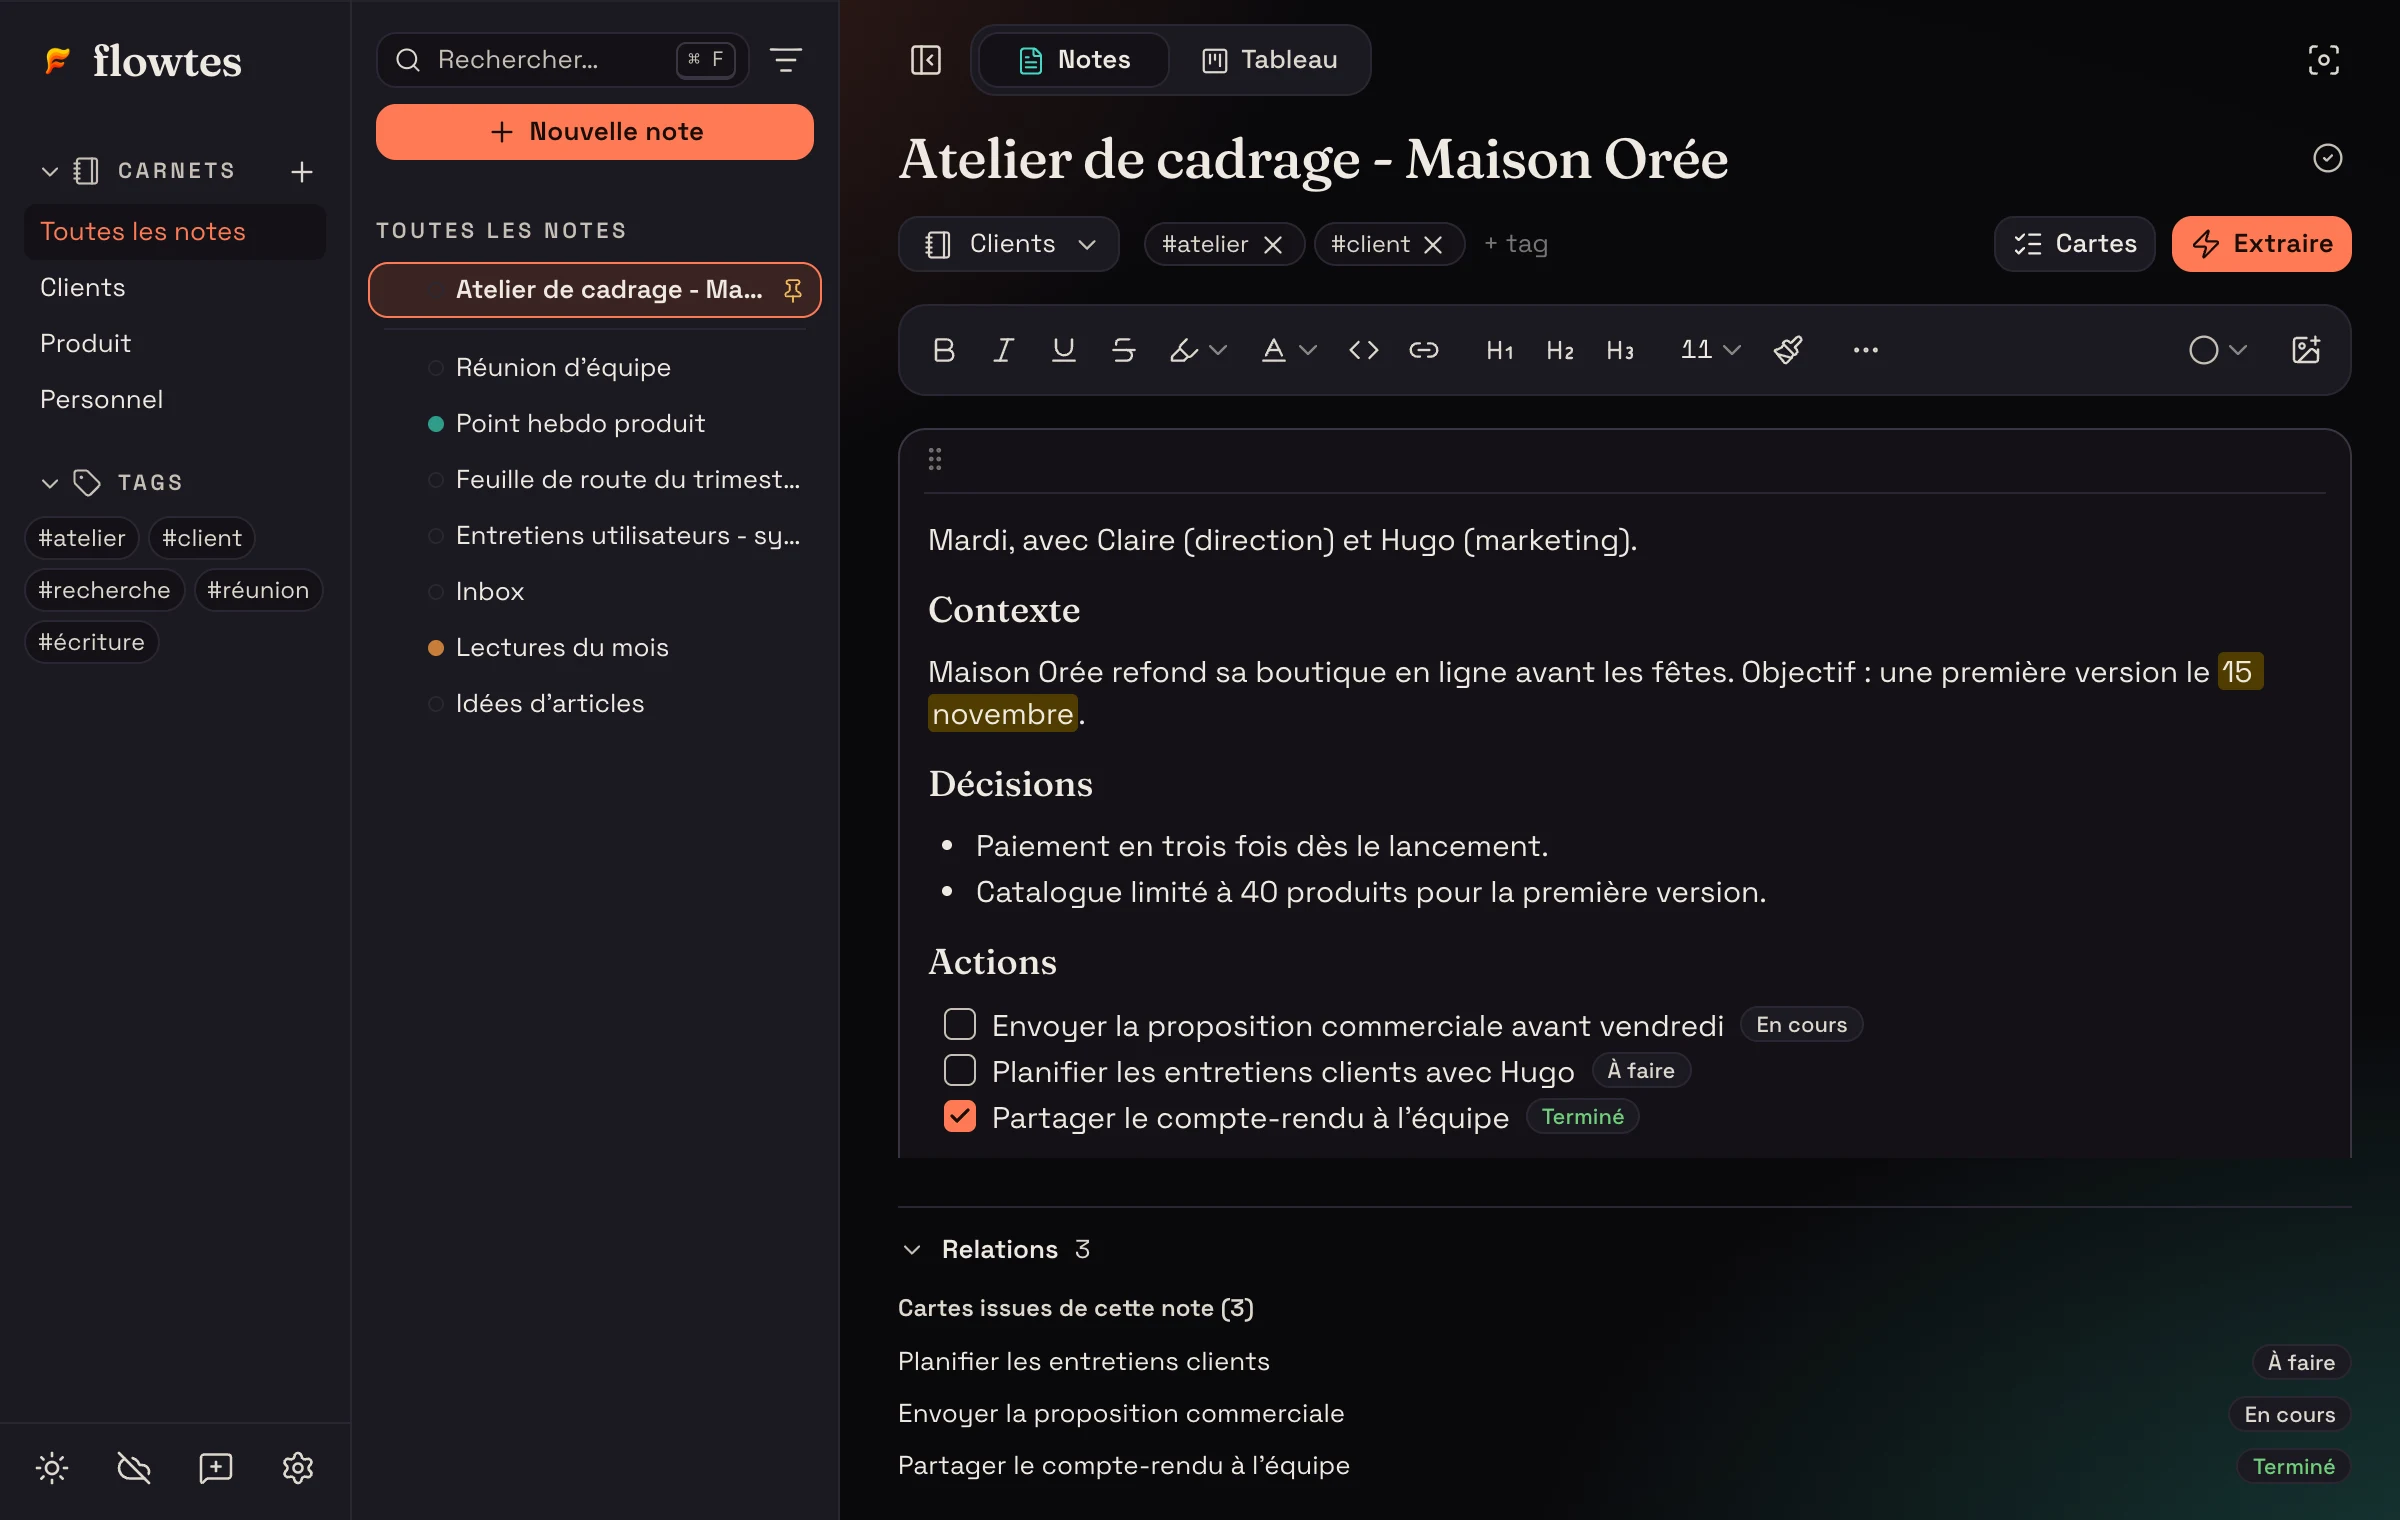
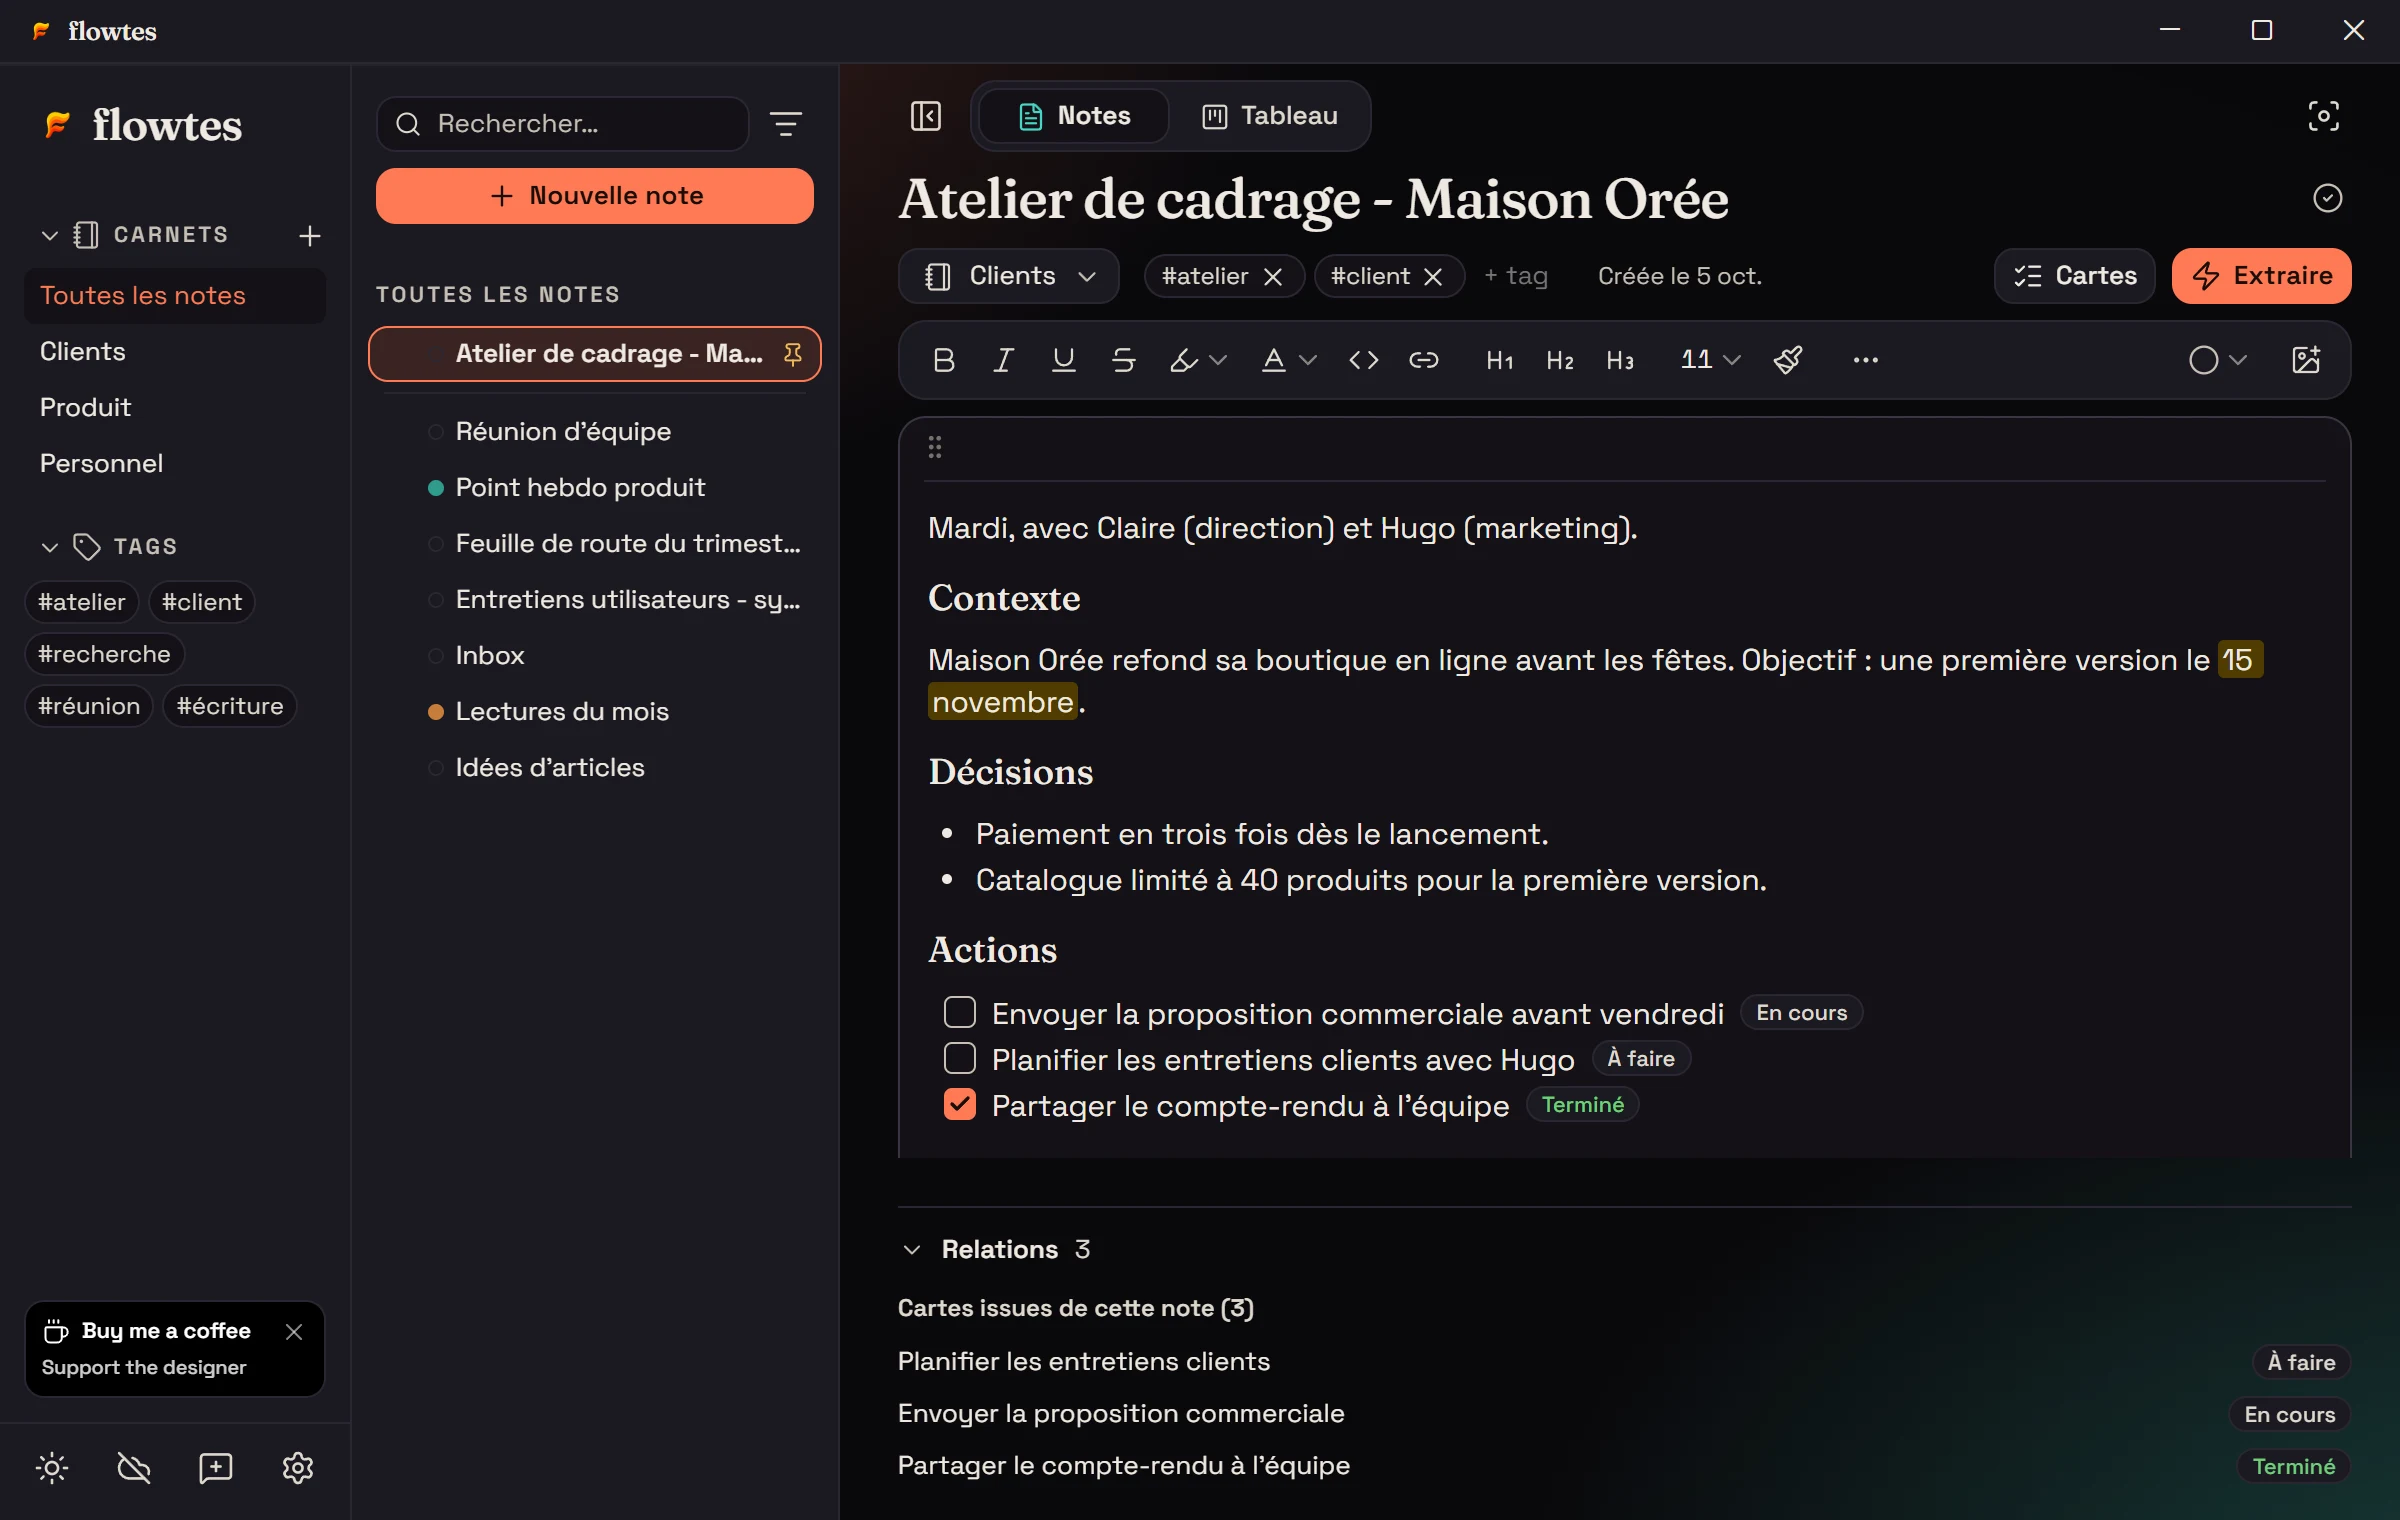
Vitrine de la version 0.11.0

diff --git a/README.md b/README.md
@@ -10,14 +10,14 @@ Une app de bureau qui réunit vos notes et votre tableau de tâches.<br>
 Elle repère les actions dans ce que vous écrivez. Vos données restent sur votre ordinateur.
 
 <p>
-  <a href="https://github.com/Vitopya/flowtes-releases/releases/download/v0.10.2/Flowtes_0.10.2_x64-setup.exe"><b>Télécharger pour Windows</b></a>
+  <a href="https://github.com/Vitopya/flowtes-releases/releases/download/v0.11.0/Flowtes_0.11.0_x64-setup.exe"><b>Télécharger pour Windows</b></a>
   &nbsp;·&nbsp;
-  <a href="https://github.com/Vitopya/flowtes-releases/releases/download/v0.10.2/Flowtes_0.10.2_aarch64.dmg"><b>Mac à puce Apple</b></a>
+  <a href="https://github.com/Vitopya/flowtes-releases/releases/download/v0.11.0/Flowtes_0.11.0_aarch64.dmg"><b>Mac à puce Apple</b></a>
   &nbsp;·&nbsp;
-  <a href="https://github.com/Vitopya/flowtes-releases/releases/download/v0.10.2/Flowtes_0.10.2_x64.dmg"><b>Mac Intel</b></a>
+  <a href="https://github.com/Vitopya/flowtes-releases/releases/download/v0.11.0/Flowtes_0.11.0_x64.dmg"><b>Mac Intel</b></a>
 </p>
 
-<sub>Version 0.10.2 du 25 octobre 2026 · Gratuit · Sans compte · Fonctionne hors ligne</sub>
+<sub>Version 0.11.0 du 4 novembre 2026 · Gratuit · Sans compte · Fonctionne hors ligne</sub>
 
 </div>
 
@@ -66,9 +66,9 @@ Après une réunion, on relit ses notes, on repère les actions, puis on les rec
 
 | Votre ordinateur | Fichier à télécharger |
 |---|---|
-| Windows 10 ou 11 (64 bits) | [Flowtes_0.10.2_x64-setup.exe](https://github.com/Vitopya/flowtes-releases/releases/download/v0.10.2/Flowtes_0.10.2_x64-setup.exe) |
-| Mac à puce Apple (M1 et suivants) | [Flowtes_0.10.2_aarch64.dmg](https://github.com/Vitopya/flowtes-releases/releases/download/v0.10.2/Flowtes_0.10.2_aarch64.dmg) |
-| Mac Intel | [Flowtes_0.10.2_x64.dmg](https://github.com/Vitopya/flowtes-releases/releases/download/v0.10.2/Flowtes_0.10.2_x64.dmg) |
+| Windows 10 ou 11 (64 bits) | [Flowtes_0.11.0_x64-setup.exe](https://github.com/Vitopya/flowtes-releases/releases/download/v0.11.0/Flowtes_0.11.0_x64-setup.exe) |
+| Mac à puce Apple (M1 et suivants) | [Flowtes_0.11.0_aarch64.dmg](https://github.com/Vitopya/flowtes-releases/releases/download/v0.11.0/Flowtes_0.11.0_aarch64.dmg) |
+| Mac Intel | [Flowtes_0.11.0_x64.dmg](https://github.com/Vitopya/flowtes-releases/releases/download/v0.11.0/Flowtes_0.11.0_x64.dmg) |
 
 Puce Apple ou Intel ? Menu Pomme > À propos de ce Mac : la ligne “Puce” désigne un Mac à puce Apple, la ligne “Processeur” un Mac Intel.
 
@@ -83,12 +83,16 @@ Puce Apple ou Intel ? Menu Pomme > À propos de ce Mac : la ligne “Puce” dé
 
 Toutes les versions et leurs notes : [page des versions](https://github.com/Vitopya/flowtes-releases/releases).
 
-## Nouveautés de la version 0.10.2
+## Nouveautés de la version 0.11.0
 
-- Plus de fenêtre vide sur les Mac anciens
-- Flowtes démarre sur macOS 10.13 à 10.15
+- Corrections d'orthographe au clic droit
+- Les dates de création et de modification de chaque note
+- Tout déplier, tout replier dans la liste des notes
+- Les blocs voisins s'ajustent quand on en élargit un
+- Une hauteur réglée à la main est conservée
+- Un en-tête de note plus compact
 
-[Le détail de la version 0.10.2](https://github.com/Vitopya/flowtes-releases/releases/tag/v0.10.2)
+[Le détail de la version 0.11.0](https://github.com/Vitopya/flowtes-releases/releases/tag/v0.11.0)
 
 ## Questions fréquentes
 
